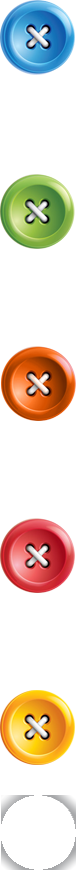
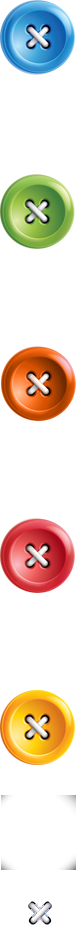
继续写了直线上不相邻的扣子的裁剪，但是没有解决横线不相邻的裁剪，XY坐标不通用

diff --git a/buttonCut/js/cut.js b/buttonCut/js/cut.js
@@ -1,107 +1,132 @@
 $(document).ready(function(){
-
+	var color1 = "",
+		color2 = "",//两次鼠标点击对象的颜色
+		coordinate1 = "",
+		coordinate2 = "",//点击对象的坐标
+		clearBox = [],//存储准备剪掉的扣子
+		stepBox = [],//记录每次剪掉的扣子数
+		returnBox = [],//存储已经剪掉的扣子
+		clearIndex = 0,
+		stepIndex =0,
+		indexNew =0,
+		index = "";
 	//剪扣子
-	function cutBtn(id){
-		$("#"+id).children().detach();
+	function cutBtnFlash(indexNew){
+		var box =[],
+			num = indexNew;
+		for(var i = 0;i<num;i++){
+			box[i] = clearBox[clearIndex-i-1];
+		}
+		box.sort();
+		for(var i=0;i<num;i++){			
+			$("#"+box[i]).addClass("fork").children().fadeOut().detach();
+		}
 		clearData();
-		alert("清除一个扣子");
 	}
-	function cutBtns(coordinate1,coordinate2){
-		$("#"+coordinate1).add($("#"+coordinate2)).removeClass(color1);
-		clearData();
-		clearBox[0] = $("#"+coordinate1).children().detach();
-		clearBox[1] = $("#"+coordinate2).children().detach();
-		//.........
-		alert("清除一对扣子");
+	//获取夹在中间的扣子
+	function getButtons(coorX,coorY){
+		var start =0,
+			id = "",
+			flag =0,
+			//indexNew = 0,//此次扣子数
+			coorXoY = 0,
+			XoY = 0;
+		coorX = parseInt(coorX);
+		coorY = parseInt(coorY);
+		if(coorX){//竖线
+			start = parseInt((coordinate2x - coordinate1x) > 0 ? coordinate1x : coordinate2x);
+			coorXoY = coorX;
+			XoY = coordinate1y;
+		}else{//横线
+			start = parseInt((coordinate2y - coordinate1y) > 0 ? coordinate1y : coordinate2y);
+			coorXoY = coorY;
+			XoY = coordinate1x;
+		}
+
+		for (var i = start; i < (coorXoY+start-1); i++) {
+			if(color1 == $("#l"+(i+1)+XoY).children().attr("class")){//取得加在中间的扣子颜色
+				flag = 1;
+			}else{
+				if( $("#l"+(i+1)+XoY).children().length != 0){
+					clearData();
+				}else{
+					flag=2;
+				}
+			}
+			if(flag==1){
+				id = "l"+(i+1)+XoY;
+				clearBox[clearIndex] = id;
+				clearIndex++;
+				indexNew++;
+			}							
+		};
+		addCoordinate();	
+		if(indexNew>2){
+			cutBtnFlash(indexNew);
+		}else{
+			cutBtnFlash(2);
+		}
+	}
+	//获取始末两点
+	function addCoordinate(){		
+		clearBox[clearIndex] = coordinate1;
+		clearIndex++;
+		clearBox[clearIndex] = coordinate2;
+		clearIndex++;
+		indexNew = indexNew+2;
 	}
 	//判断两次点击是否合法
-	function yesNo(color1,color2,coordinate1,coordinate2){
+	function yesNo(){
 			coordinate1x = coordinate1.substring(1,2);
 			coordinate1y = coordinate1.substring(2,3);
 			coordinate2x = coordinate2.substring(1,2);
 			coordinate2y = coordinate2.substring(2,3);
 			//取横坐标的绝对值
-			if((coordinate2x - coordinate1x) < 0){
-				var coorX = -(coordinate2x - coordinate1x);
-			}
-			else
-			{
-				var coorX = coordinate2x - coordinate1x;
-			}
+			var coorX = (coordinate2x - coordinate1x) < 0 ? coordinate1x - coordinate2x : coordinate2x - coordinate1x;
 			//取纵坐标的绝对值
-			if((coordinate2y - coordinate1y) < 0){
-				var coorY = -(coordinate2y - coordinate1y);
-			}
-			else
-			{
-				var coorY = coordinate2y - coordinate1y;
-			}
-
+			var coorY = (coordinate2y - coordinate1y) < 0 ? coordinate1y - coordinate2y : coordinate2y - coordinate1y;
 			//判断是否为直线
 			if (coorX==coorY) {//是对角线
 				//判断两个点之间是否有其他的点
 				if(coorX ==1)//说明两个点相邻
 				{
-					alert("对角相邻");
-					cutBtns(coordinate1,coordinate2);//执行剪扣子的函数
+					addCoordinate();
+					cutBtnFlash(2);
 				}
 				else{//不相邻
 					alert("对角但是不相邻");
+					clearData();
 				}
 			}
 			if(coorX==0||coorY==0){//是竖线或者横线
 				if(coorX == 0){//横线
 					if(coorY == 1){//相邻
-						cutBtns(coordinate1,coordinate2);
+						addCoordinate();
+						cutBtnFlash(2);
 					}
 					else{//不相邻
-						//判断中间的扣子
+						getButtons(coorX,coorY);
 					}
 				}
 				else{//竖线
 					if(coorX == 1){//相邻
-						cutBtns(coordinate1,coordinate2);
+						addCoordinate();
+						cutBtnFlash(2);
 					}
 					else{//不相邻
-						var start =0,id = "",flag =0,
-							Y = coordinate1y;//获取纵坐标
-						start = parseInt((coordinate2x - coordinate1x) > 0 ? coordinate1x : coordinate2x);
-						coorX = parseInt(coorX);
-						for (var i = start; i < (coorX+start-1); i++) {
-							if(color1 == $("#l"+(i+1)+Y).children().attr("class")){//取得加在中间的扣子颜色
-								flag = 1;
-							}else{
-								clearData();
-							}
-							id = "l"+(i+1)+Y;
-							cutBtn(id);
-						};
-						if(flag){
-							cutBtns(coordinate1,coordinate2);
-						}
+						getButtons(coorX,coorY);
 					}
 				}
-			}
-	
+			}	
 	}
-	var color1 = "";
-	var color2 = "";//两次鼠标点击对象的颜色
-	var coordinate1 = "";
-	var coordinate2 = "";//点击对象的坐标
-	var clearBox=[];
-	var index = "";
 	//清空数据，从头开始
 	function clearData(){
 		$("#"+coordinate2).add($("#"+coordinate1)).removeClass("active");//取消选择
 		color1 = color2 = coordinate1 = coordinate2 = "";
-
 	}
-
 	//获取点击数据
 	$("span").click(function(){
-
 		//判断是奇次点击还是偶次点击
-
 		if(color1==""){//开始的第一次点击
 			$(this).parent().addClass("active");
 			color1 = $(this).attr("class");
@@ -115,7 +140,6 @@ $(document).ready(function(){
 				{
 					$(this).parent().removeClass("active");//取消选择
 					clearData();	
-
 				}
 				else//否
 				{					
@@ -125,8 +149,7 @@ $(document).ready(function(){
 					if(color1 == color2){//颜色一样
 						coordinate2 = $(this).parent().attr("id");
 						//调用判断函数yesNo()
-
-						yesNo(color1,color2,coordinate1,coordinate2);
+						yesNo();
 					}
 					else{//颜色不一样，取消当前选择，重新选择现在的对象						
 						clearData();

diff --git a/buttonCut/css/page.css b/buttonCut/css/page.css
@@ -8,4 +8,5 @@
 .mainUl li span.b{background: url(../images/btnRgbSmall.png) 0 0px;}
 .mainUl li span.o{background: url(../images/btnRgbSmall.png) 0 -346px;}
 .mainUl li span.y{background: url(../images/btnRgbSmall.png) 0 -690px;}
+.mainUl li.fork{background: url(../images/btnRgbSmall.png) 0 -875px;}
 .mainUl li.active{background: url(../images/btnRgbSmall.png) 0 -795px;}
